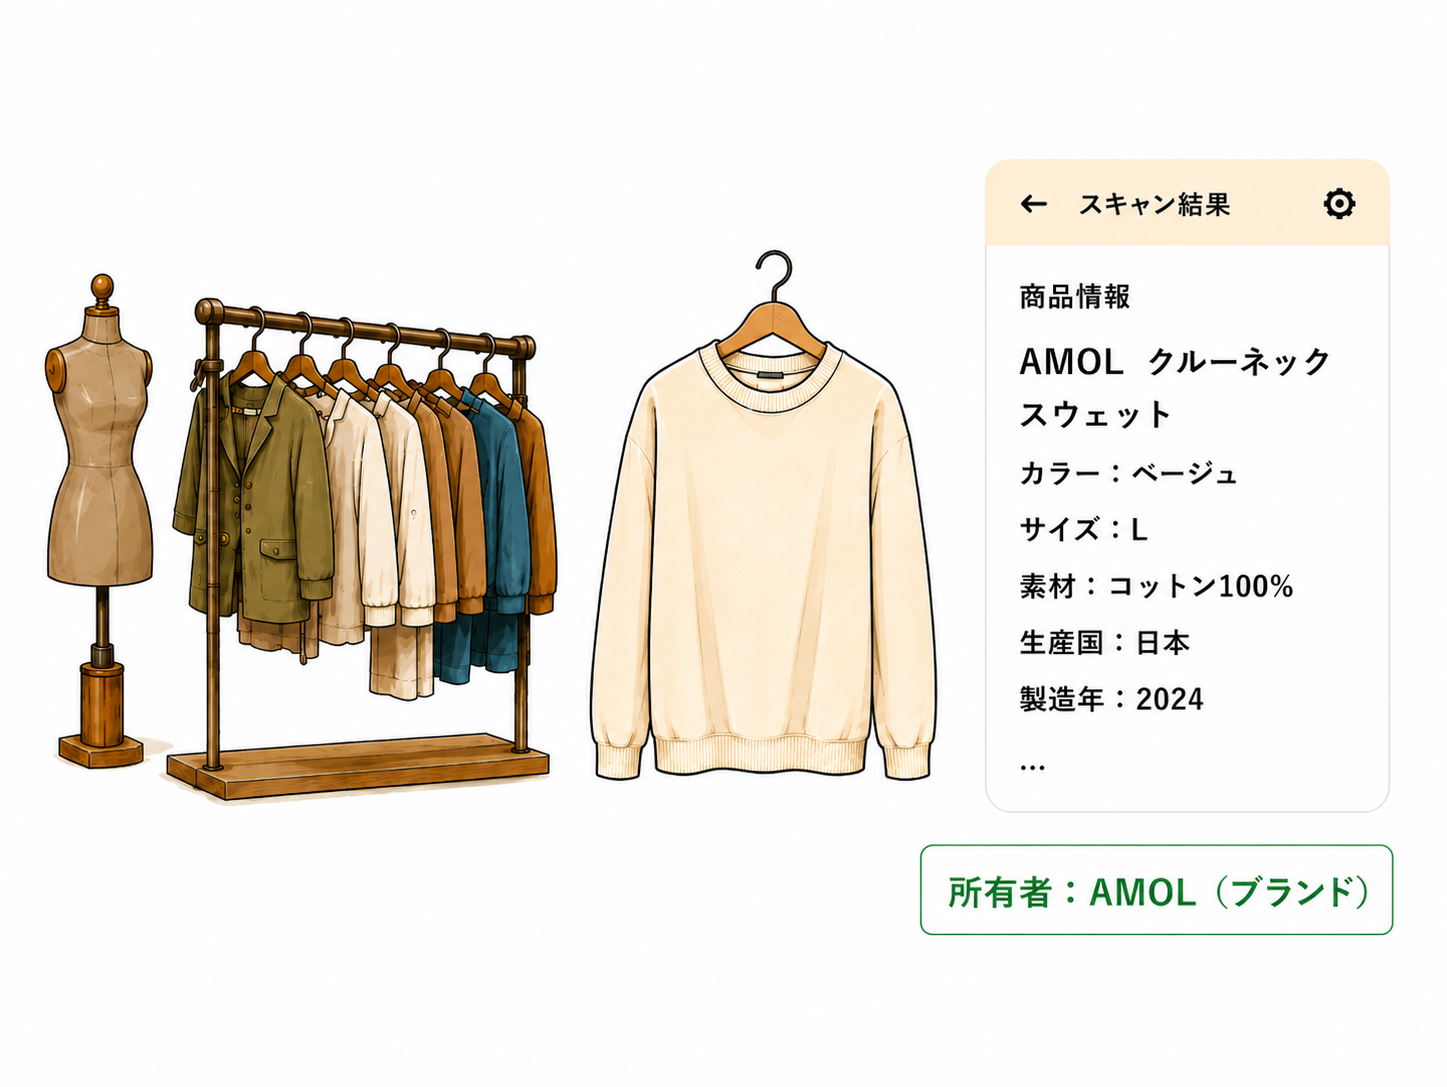
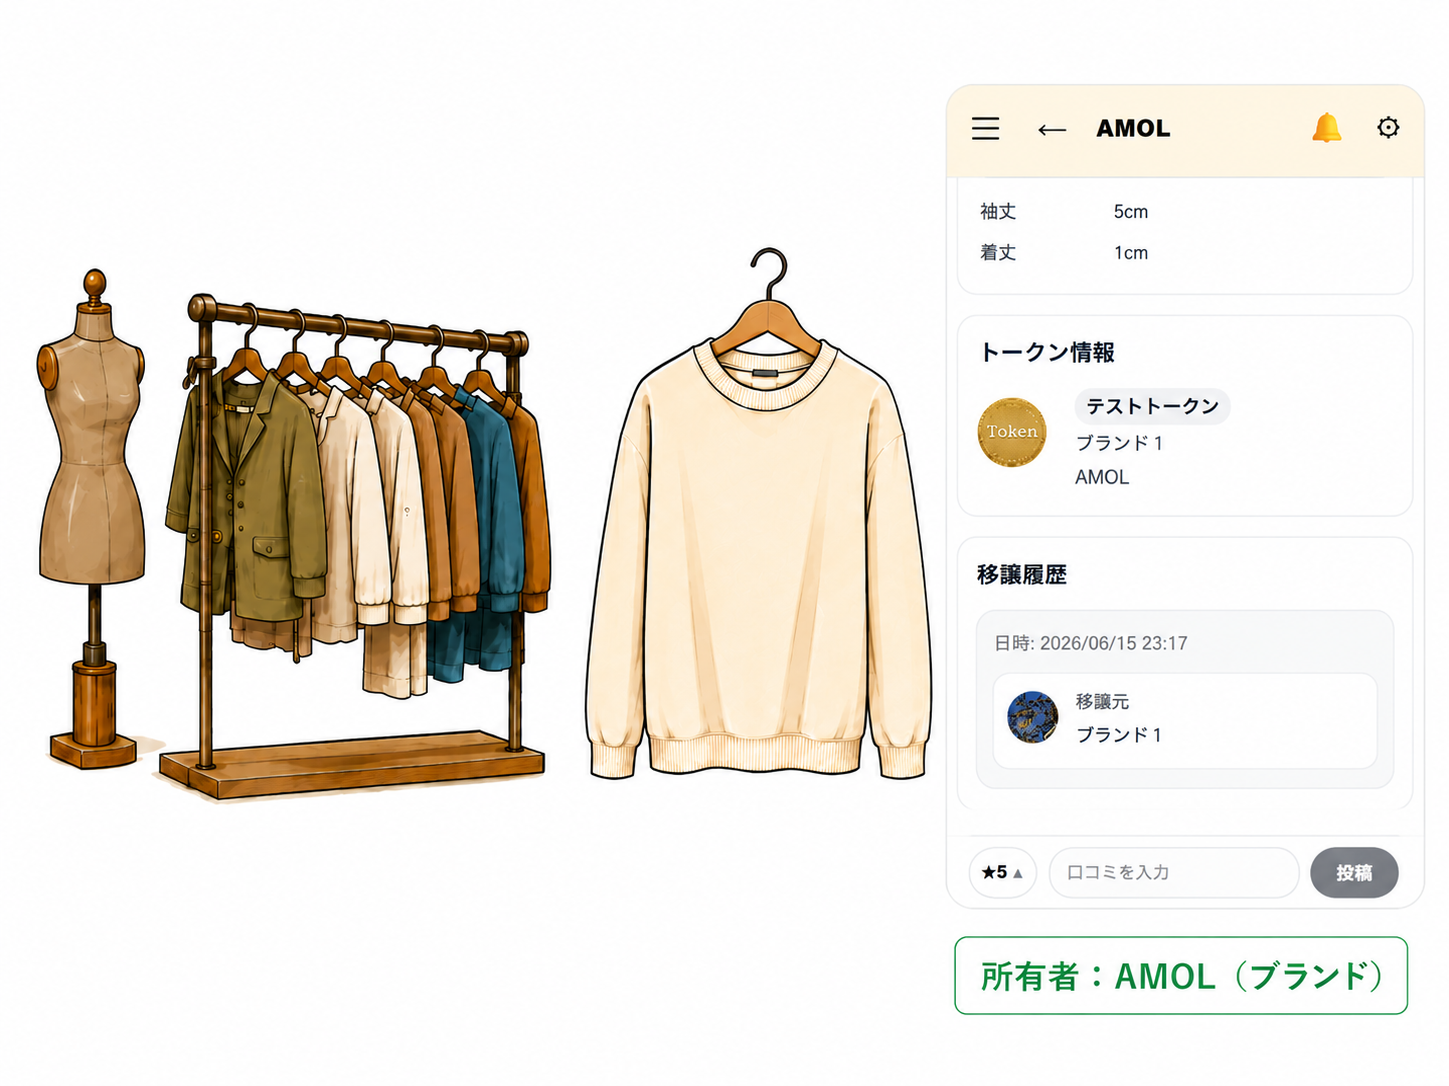
added Examples and PricePlan

diff --git a/frontend/amol/src/pages/LandingPage.tsx b/frontend/amol/src/pages/LandingPage.tsx
@@ -278,19 +278,19 @@ export default function LandingPage() {
               <article className="landing-page-service-case-card landing-page-service-case-card--mall">
                 <div className="landing-page-service-case-card__content">
                   <p className="landing-page-service-case-card__label">
-                    AMOL MALL
+                    店舗購入のお客様
                   </p>
                   <h3 className="landing-page-service-case-card__title">
-                    ブランド名で出品
+                    QRコードをスキャンで自動更新
                   </h3>
                   <p className="landing-page-service-case-card__text">
-                    電子名札が発行された商品のみが出品できるようになります。
+                    お客様のアカウントで購入した商品のQRコードをスキャンすると自動で所有者名（アバター名）が更新されます。
                   </p>
                 </div>
 
                 <div className="landing-page-service-case-card__image-wrap">
                   <img
-                    src="/Mall.png"
+                    src="/Customer.png"
                     alt="AMOL MALLで日本酒が販売され、所有者が書き換わる図"
                     className="landing-page-service-case-card__image"
                     loading="lazy"
@@ -301,19 +301,19 @@ export default function LandingPage() {
               <article className="landing-page-service-case-card landing-page-service-case-card--customer">
                 <div className="landing-page-service-case-card__content">
                   <p className="landing-page-service-case-card__label">
-                    個人のお客様
+                    二次流通先のお客様
                   </p>
                   <h3 className="landing-page-service-case-card__title">
-                    購入後、名前が自動で更新される
+                    移譲と同時に自動更新
                   </h3>
                   <p className="landing-page-service-case-card__text">
-                    お客様が購入後、配送された商品のQRコードをお客様がスキャンした時点で所有者がお客様のアバター名義に更新されます。
+                    フォロー先、フォロワー間でトークンを渡すことができます。譲渡と同時に所有者名（アバター名）が自動更新されます。
                   </p>
                 </div>
 
                 <div className="landing-page-service-case-card__image-wrap">
                   <img
-                    src="/Customer.png"
+                    src="/2ndCustomer.png"
                     alt="個人のお客様が日本酒の所有者として記録される図"
                     className="landing-page-service-case-card__image"
                     loading="lazy"